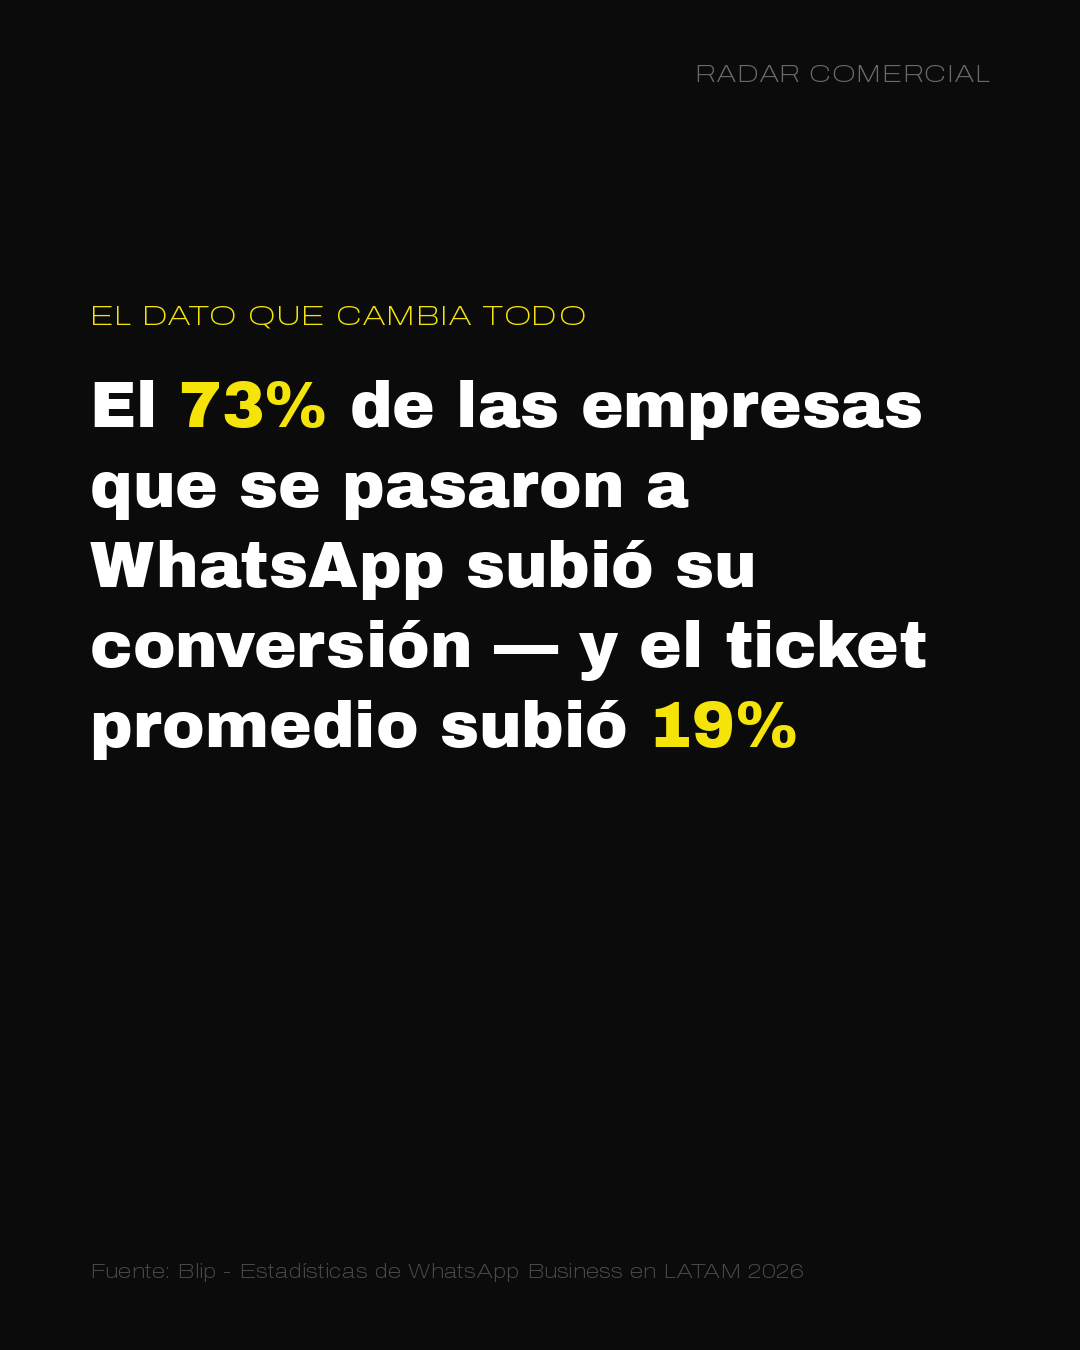
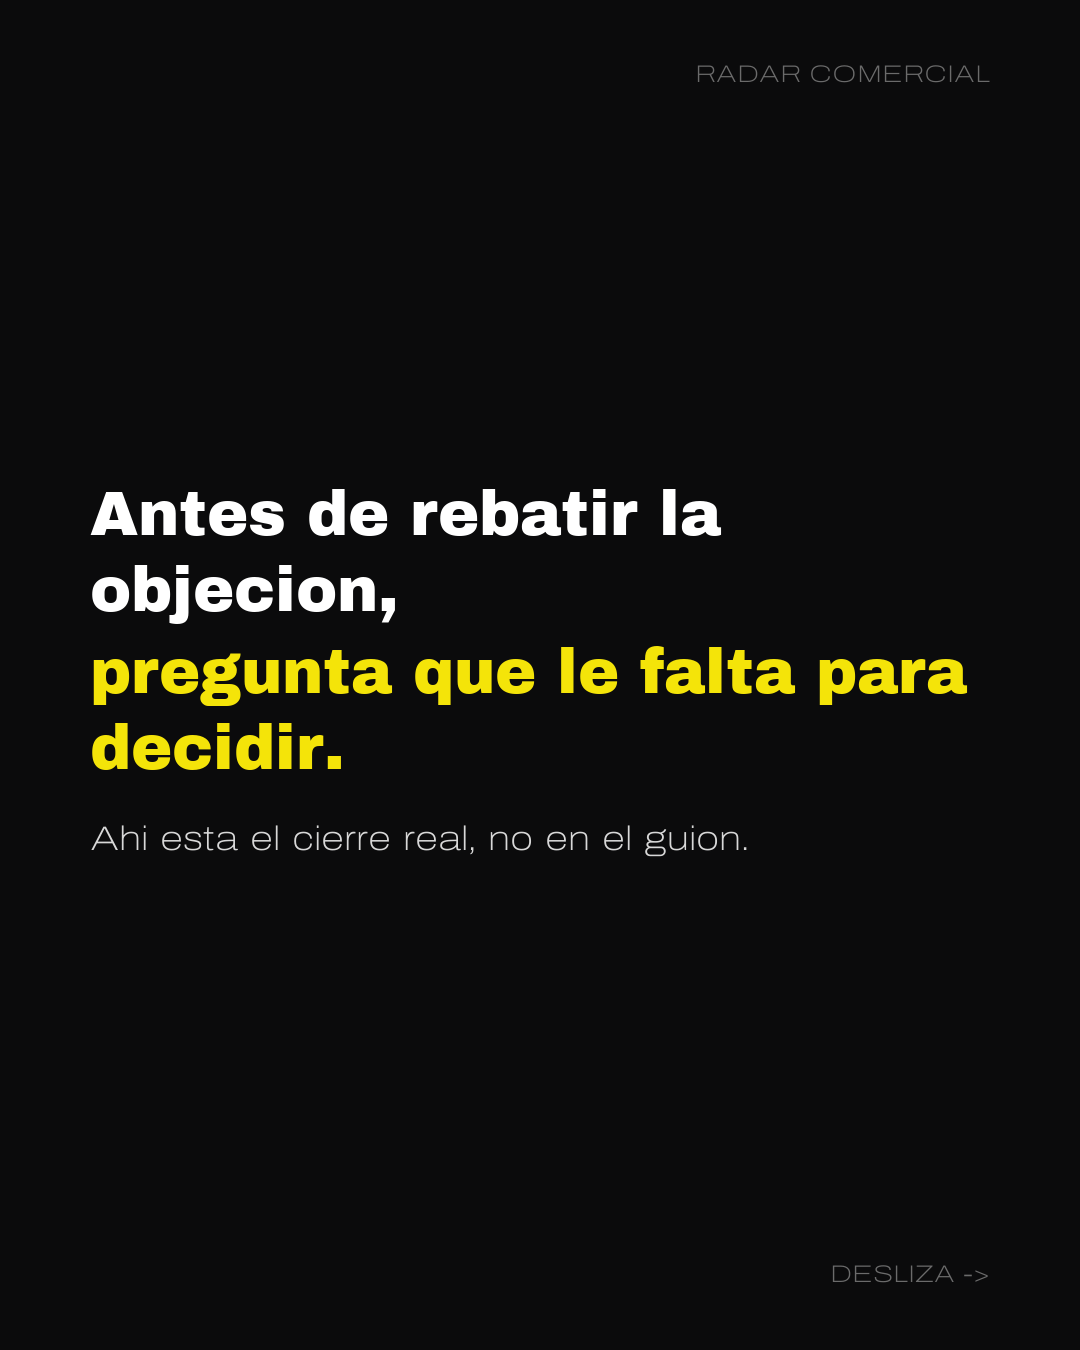
despacho: 29 septiembre 2026 (refresh manual, pivot a ventas)
Reemplaza el despacho de hoy generado antes del pivot (CRM/comercio)
por el enfoque nuevo: 100% ventas — técnicas, objeciones, mentalidad
y casos, con carruseles a tono.

diff --git a/index.html b/index.html
@@ -301,82 +301,82 @@
 
   <article class="dispatch featured">
     <div class="dispatch-meta">
-      <span class="category">Conversión</span>
+      <span class="category">Técnicas de Venta</span>
       <span>29 sep, 07:00</span>
     </div>
-    <h2>Las empresas que venden por WhatsApp en LatAm convierten hasta 15% — el email marketing apenas llega al 3%</h2>
-    <p class="summary">Según datos de comercio conversacional en la región recopilados por Blip, WhatsApp Business reporta tasas de conversión de entre 8% y 15%, frente al 1,5%-3% del email marketing tradicional, y el 73% de las empresas que lo adoptaron reporta un aumento directo en su conversión a venta, con un ticket promedio 19,2% más alto. El comercio conversacional en LatAm ya mueve US$18.200 millones — y el 72% de ese monto pasa por WhatsApp.</p>
+    <h2>El 96% de tus prospectos ya te investigó antes de que llames — y la llamada en frío convierte apenas 2%-3%</h2>
+    <p class="summary">Según datos de HubSpot recopilados en el análisis de Aprender21 sobre ventas B2B en LatAm, la tasa de éxito real de una llamada en frío sin preparación se mueve entre 2% y 3%, mientras que el 96% de los prospectos ya investigó por su cuenta antes de hablar con un vendedor. La lectura para el que vende no es "hay que llamar más": es que cada llamada sin preparación previa ya arranca perdida.</p>
     <div class="dispatch-footer">
-      <span>Fuente: Blip — 8 estadísticas de WhatsApp Business en LATAM 2026</span>
-      <a class="source-link" href="https://www.blip.ai/blog/es/whatsapp/estadisticas-whatsapp-marketing-latam/" target="_blank" rel="noopener">Ver fuente →</a>
+      <span>Fuente: Aprender21 (datos HubSpot) — Ventas B2B: Estrategias Clave para Negocios Entre Empresas en LatAm</span>
+      <a class="source-link" href="https://www.aprender21.mx/blog/ventas-b2b-estrategias-exitosas" target="_blank" rel="noopener">Ver fuente →</a>
     </div>
     <div style="margin-top:4px; padding-top:12px; border-top:1px dashed rgba(22,33,61,0.15); font-size:12.5px; color:#5A5F6E;">
-      ¿Tu negocio tiene este mismo problema? <a href="https://dannymera.com" style="color:var(--amber-deep); font-weight:500; text-decoration:none;" target="_blank" rel="noopener">Pide un diagnóstico →</a>
+      ¿Quieres vender así? <a href="https://dannymera.com" style="color:var(--amber-deep); font-weight:500; text-decoration:none;" target="_blank" rel="noopener">Sumate al despacho diario →</a>
     </div>
   </article>
 
   <article class="dispatch">
     <div class="dispatch-meta">
-      <span class="category">Herramientas</span>
+      <span class="category">Objeciones &amp; Cierre</span>
       <span>29 sep, 07:00</span>
     </div>
-    <h2>56% de las tiendas online chilenas ya usa IA a diario — y el 70% las administra una sola persona</h2>
-    <p class="summary">El informe NubeCommerce 2026 de Tiendanube, que encuestó a más de 2.000 tiendas chilenas, encontró que el 56,3% de los negocios usa IA de forma activa, sobre todo para optimizar fichas de producto (56,3%) y generar contenido visual y textual (54,1%). El detalle que cambia la lectura: el 70,5% de esas pymes digitales las administra una sola persona — la IA ahí no es un lujo, es la única forma de dar abasto.</p>
+    <h2>El 64% de los vendedores que entienden bien la objeción cierran la venta — la mitad de los que se van sin comprar lo habrían hecho con otro cierre</h2>
+    <p class="summary">Un análisis de Escuela Nómada Digital sobre técnicas de cierre para 2026, basado en datos de HubSpot, muestra que el 64% de los vendedores que comprenden a fondo la objeción del cliente logra cerrar la venta, y que la mitad de los prospectos que nunca compran habrían comprado si el vendedor hubiera pedido el cierre de otra manera. No es que no quisieran comprar: es que nadie les pidió el cierre bien.</p>
     <div class="dispatch-footer">
-      <span>Fuente: Tierra Marillano — El 56% de las tiendas online en Chile ya opera con Inteligencia Artificial y se prepara para la era del comercio agéntico</span>
-      <a class="source-link" href="https://tierramarillano.cl/2026/02/26/el-56-de-las-tiendas-online-en-chile-ya-opera-con-inteligencia-artificial-y-se-prepara-para-la-era-del-comercio-agentico/" target="_blank" rel="noopener">Ver fuente →</a>
+      <span>Fuente: Escuela Nómada Digital — Las 14 técnicas de cierre de ventas más efectivas en 2026</span>
+      <a class="source-link" href="https://escuelanomadadigital.com/tecnicas-de-cierre-de-ventas/" target="_blank" rel="noopener">Ver fuente →</a>
     </div>
   </article>
 
   <article class="dispatch">
     <div class="dispatch-meta">
-      <span class="category">Tendencias LATAM</span>
+      <span class="category">Técnicas de Venta</span>
       <span>29 sep, 07:00</span>
     </div>
-    <h2>México ya es el 8º mercado de e-commerce más grande del mundo — con 77 millones de compradores digitales</h2>
-    <p class="summary">El Estudio de Venta Online 2026 de la AMVO confirma que México superó los 77,2 millones de compradores digitales en 2025, con un mercado de $941.000 millones de pesos que creció 19,2% —una velocidad varias veces mayor a la de la economía general del país—, suficiente para meterlo en el top 10 mundial de comercio electrónico, con una penetración de 17,7% del retail total.</p>
+    <h2>Las compras B2B ya casi nunca las decide una sola persona: 77% pasa por 3 decisores o más</h2>
+    <p class="summary">Según el análisis de Sales Business School sobre el "renacimiento de las ventas B2B" en 2026, el 77% de las compras empresariales hoy involucra a tres o más personas en el comité de decisión. Venderle bien a un solo contacto ya no alcanza — el vendedor que no identifica a los otros decisores está negociando solo la mitad del proceso real.</p>
     <div class="dispatch-footer">
-      <span>Fuente: Marketing4eCommerce México — Estudio de Venta Online 2026 AMVO: México entra al Top 10 mundial</span>
-      <a class="source-link" href="https://marketing4ecommerce.mx/estudio-de-venta-online-2026-amvo-mexico/" target="_blank" rel="noopener">Ver fuente →</a>
+      <span>Fuente: Sales Business School — El renacimiento de las Ventas B2B: lo que de verdad va a definir 2026</span>
+      <a class="source-link" href="https://salesbusinessschool.es/thinking-on-sales/tendencias-ventas-b2b-2026/" target="_blank" rel="noopener">Ver fuente →</a>
     </div>
   </article>
 
   <article class="dispatch">
     <div class="dispatch-meta">
-      <span class="category">CRM &amp; Automatización</span>
+      <span class="category">Casos &amp; Datos</span>
       <span>29 sep, 07:00</span>
     </div>
-    <h2>70% de las pymes chilenas ya usa IA — pero solo la mitad la usa para transformar de verdad su negocio</h2>
-    <p class="summary">El estudio de Entel Digital y CENIA, con más de 526 ejecutivos encuestados y respaldo de ACTI, SOFOFA y universidades chilenas, encontró que el 70% de las pymes del país ya incorporó IA en su operación —frente a más del 80% en las grandes empresas— y que el 93% cree que tendrá un impacto positivo. El problema: los mismos autores advierten que solo la mitad de las empresas que la usan lo hace con un enfoque realmente transformador; el resto se queda en tareas sueltas.</p>
+    <h2>El Social Selling Index de LinkedIn ya correlaciona con 45% más de oportunidades de venta abiertas</h2>
+    <p class="summary">Según datos del LinkedIn Sales Report recogidos por Sales Business School, los vendedores con un Social Selling Index alto generan un 45% más de oportunidades que quienes no cuidan su presencia en la red. No es tener perfil: es usarlo activamente para investigar, comentar y aparecer antes del primer contacto directo.</p>
     <div class="dispatch-footer">
-      <span>Fuente: Entel Digital — IA en Chile: Crece su uso en empresas, pero falta capacitación digital laboral</span>
-      <a class="source-link" href="https://www.enteldigital.cl/blog/estudio-sobre-adopcion-de-ia-en-chile" target="_blank" rel="noopener">Ver fuente →</a>
+      <span>Fuente: Sales Business School — LinkedIn: el impulsor del éxito B2B en Ventas</span>
+      <a class="source-link" href="https://salesbusinessschool.es/thinking-on-sales/linkedin-ventas-b2b/" target="_blank" rel="noopener">Ver fuente →</a>
     </div>
   </article>
 
   <article class="dispatch">
     <div class="dispatch-meta">
-      <span class="category">Herramientas</span>
+      <span class="category">Objeciones &amp; Cierre</span>
       <span>29 sep, 07:00</span>
     </div>
-    <h2>Colombia rompió su propio récord de compras online: $145 billones de pesos en un solo año</h2>
-    <p class="summary">Según cifras compiladas por Infobae, el comercio electrónico colombiano cerró 2025 con 684,6 millones de transacciones digitales —19,9% más que el año anterior— y un valor de $145,4 billones de pesos, 11,1% más que 2024. El ritmo no bajó: solo en el primer trimestre de 2026 ya se registraron 186,35 millones de transacciones, un salto de 22,2% frente al mismo periodo del año pasado.</p>
+    <h2>Lo que el 47% de los clientes le pide a un vendedor no es más simpatía: es que le resuelva el problema</h2>
+    <p class="summary">Un estudio de LinkedIn a más de 10.000 compradores, vendedores y gerentes de ventas, citado en un análisis publicado en LinkedIn Pulse sobre negociación comercial, encontró que el 47% de los clientes valora ante todo que el vendedor sea capaz de "resolver problemas" — por encima de la simpatía o la insistencia. La objeción más común no es el precio: es la duda de que el vendedor entienda realmente lo que necesita.</p>
     <div class="dispatch-footer">
-      <span>Fuente: Infobae Colombia — Colombia rompió récord en compras online: 684 millones de transacciones y $145 billones en un solo año</span>
-      <a class="source-link" href="https://www.infobae.com/colombia/2026/02/20/colombia-rompio-record-en-compras-online-684-millones-de-transacciones-y-145-billones-en-un-solo-ano/" target="_blank" rel="noopener">Ver fuente →</a>
+      <span>Fuente: LinkedIn Pulse — ¿Qué es la negociación de ventas y cómo mejorar tus técnicas?</span>
+      <a class="source-link" href="https://es.linkedin.com/pulse/qu%C3%A9-es-la-negociaci%C3%B3n-de-ventas-y-c%C3%B3mo-mejorar-tus-t%C3%A9cnicas--2c" target="_blank" rel="noopener">Ver fuente →</a>
     </div>
   </article>
 
   <article class="dispatch">
     <div class="dispatch-meta">
-      <span class="category">Tendencias LATAM</span>
+      <span class="category">Mentalidad</span>
       <span>29 sep, 07:00</span>
     </div>
-    <h2>72,8% de las pymes colombianas espera vender más en 2026 — pese a los costos y el ruido político</h2>
-    <p class="summary">Según el Índice de Confianza Empresarial de Vistage Colombia, recogido por Infobae, el 72,8% de las pymes del país proyecta que su facturación aumentará en los próximos 12 meses, un 19,8% espera estabilidad y solo un 7,4% anticipa una caída. La lectura para el que vende: en un escenario donde varios competidores frenan, quien ajusta su propuesta de valor y protege el flujo de caja tiene el terreno más despejado para capturar esa demanda.</p>
+    <h2>En Argentina el comprador B2B desconfía de entrada — pero una vez que confía, cierra más rápido que en cualquier otro momento del proceso</h2>
+    <p class="summary">Según el análisis de Claudio Cavezzali sobre ventas B2B en la región, el decisor argentino parte con más desconfianza ante propuestas frías por el contexto económico, lo que exige mostrar casos concretos y reducir el riesgo percibido desde el primer contacto. La consecuencia para el vendedor: el ciclo inicial es más largo, pero una vez construida la confianza, el cierre se acelera más que en cualquier otro tramo de la negociación.</p>
     <div class="dispatch-footer">
-      <span>Fuente: Infobae Colombia — Pymes en Colombia no se rinden: el 72,8% prevé aumentar sus ventas en 2026 pese al ruido político y la presión de costos</span>
-      <a class="source-link" href="https://www.infobae.com/colombia/2026/02/11/pymes-en-colombia-no-se-rinden-el-728-preve-aumentar-sus-ventas-en-2026-pese-al-ruido-politico-y-la-presion-de-costos/" target="_blank" rel="noopener">Ver fuente →</a>
+      <span>Fuente: Claudio Cavezzali — Ventas B2B: el sistema que genera pipeline predecible en LATAM</span>
+      <a class="source-link" href="https://claucave.com/ventas-b2b/" target="_blank" rel="noopener">Ver fuente →</a>
     </div>
   </article>
 

diff --git a/archivo.html b/archivo.html
@@ -69,28 +69,28 @@
   <div class="day-group">
     <div class="day-label">Hoy — 29 septiembre 2026</div>
     <a class="archive-item" href="index.html">
-      <span class="archive-title">Las empresas que venden por WhatsApp en LatAm convierten hasta 15% — el email marketing apenas llega al 3%</span>
-      <span class="archive-cat">Conversión</span>
+      <span class="archive-title">El 96% de tus prospectos ya te investigó antes de que llames — y la llamada en frío convierte apenas 2%-3%</span>
+      <span class="archive-cat">Técnicas de Venta</span>
     </a>
     <a class="archive-item" href="index.html">
-      <span class="archive-title">56% de las tiendas online chilenas ya usa IA a diario — y el 70% las administra una sola persona</span>
-      <span class="archive-cat">Herramientas</span>
+      <span class="archive-title">El 64% de los vendedores que entienden bien la objeción cierran la venta — la mitad de los que se van sin comprar lo habrían hecho con otro cierre</span>
+      <span class="archive-cat">Objeciones &amp; Cierre</span>
     </a>
     <a class="archive-item" href="index.html">
-      <span class="archive-title">México ya es el 8º mercado de e-commerce más grande del mundo — con 77 millones de compradores digitales</span>
-      <span class="archive-cat">Tendencias LATAM</span>
+      <span class="archive-title">Las compras B2B ya casi nunca las decide una sola persona: 77% pasa por 3 decisores o más</span>
+      <span class="archive-cat">Técnicas de Venta</span>
     </a>
     <a class="archive-item" href="index.html">
-      <span class="archive-title">70% de las pymes chilenas ya usa IA — pero solo la mitad la usa para transformar de verdad su negocio</span>
-      <span class="archive-cat">CRM &amp; Automatización</span>
+      <span class="archive-title">El Social Selling Index de LinkedIn ya correlaciona con 45% más de oportunidades de venta abiertas</span>
+      <span class="archive-cat">Casos &amp; Datos</span>
     </a>
     <a class="archive-item" href="index.html">
-      <span class="archive-title">Colombia rompió su propio récord de compras online: $145 billones de pesos en un solo año</span>
-      <span class="archive-cat">Herramientas</span>
+      <span class="archive-title">Lo que el 47% de los clientes le pide a un vendedor no es más simpatía: es que le resuelva el problema</span>
+      <span class="archive-cat">Objeciones &amp; Cierre</span>
     </a>
     <a class="archive-item" href="index.html">
-      <span class="archive-title">72,8% de las pymes colombianas espera vender más en 2026 — pese a los costos y el ruido político</span>
-      <span class="archive-cat">Tendencias LATAM</span>
+      <span class="archive-title">En Argentina el comprador B2B desconfía de entrada — pero una vez que confía, cierra más rápido que en cualquier otro momento del proceso</span>
+      <span class="archive-cat">Mentalidad</span>
     </a>
   </div>
 

diff --git a/carruseles.html b/carruseles.html
@@ -152,7 +152,7 @@
         <label for="chk-2026-09-29-1">Marcar como publicado</label>
         <span class="badge-pendiente">Pendiente</span>
       </div>
-      <div class="carousel-title">Carrusel 1 — La empresa que le seguía apostando al email</div>
+      <div class="carousel-title">Carrusel 1 — El vendedor que perdía la mitad de sus cierres sin saber por qué</div>
       <div class="thumbs">
         <div class="thumb"><a class="dl" href="carruseles/2026-09-29/1/slide-1.png" download title="Descargar slide 1"><img src="carruseles/2026-09-29/1/slide-1.png" alt="Slide 1"><span class="dl-overlay">⬇</span></a><span class="slide-num">1</span></div>
         <div class="thumb"><a class="dl" href="carruseles/2026-09-29/1/slide-2.png" download title="Descargar slide 2"><img src="carruseles/2026-09-29/1/slide-2.png" alt="Slide 2"><span class="dl-overlay">⬇</span></a><span class="slide-num">2</span></div>
@@ -171,7 +171,7 @@
         <label for="chk-2026-09-29-2">Marcar como publicado</label>
         <span class="badge-pendiente">Pendiente</span>
       </div>
-      <div class="carousel-title">Carrusel 2 — La pyme que activó IA y no la usó de verdad</div>
+      <div class="carousel-title">Carrusel 2 — El vendedor que llamaba 100 veces al día y no entendía por qué nadie contestaba</div>
       <div class="thumbs">
         <div class="thumb"><a class="dl" href="carruseles/2026-09-29/2/slide-1.png" download title="Descargar slide 1"><img src="carruseles/2026-09-29/2/slide-1.png" alt="Slide 1"><span class="dl-overlay">⬇</span></a><span class="slide-num">1</span></div>
         <div class="thumb"><a class="dl" href="carruseles/2026-09-29/2/slide-2.png" download title="Descargar slide 2"><img src="carruseles/2026-09-29/2/slide-2.png" alt="Slide 2"><span class="dl-overlay">⬇</span></a><span class="slide-num">2</span></div>
